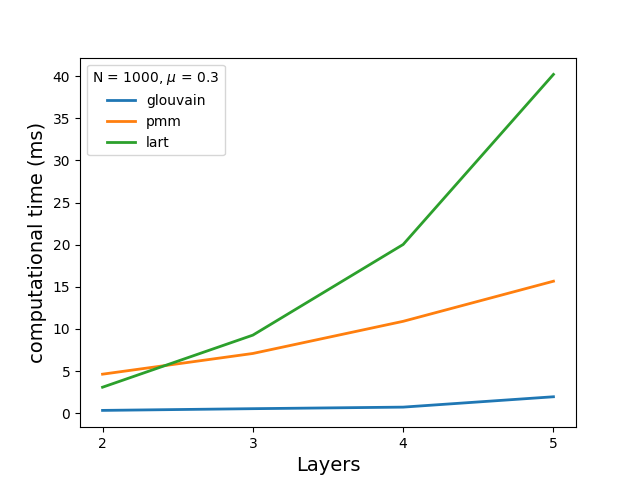
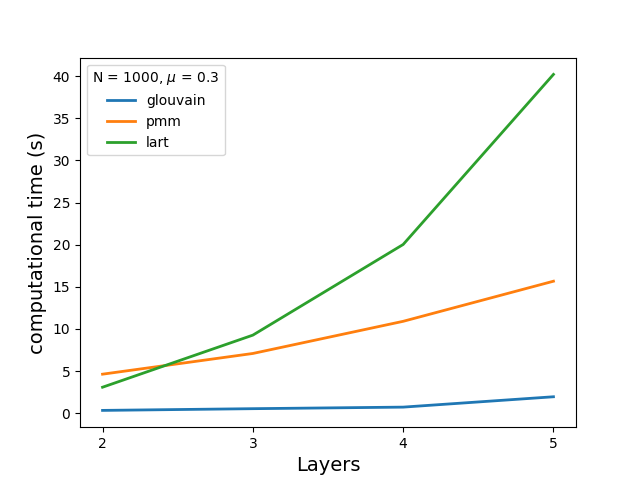
MS -> S

Changed region(s): [[0.0312, 0.25, 0.0938, 0.75]]

diff --git a/plot/t2.py b/plot/t2.py
@@ -51,7 +51,7 @@ def main():
 	c = plot(data, 'lart', 0, 1000)
 
 	plt.xlabel('Layers', fontsize = 14)
-	plt.ylabel('computational time (ms)', fontsize = 14)
+	plt.ylabel('computational time (s)', fontsize = 14)
 	plt.legend(handles = [a, b, c], loc = 2, title = 'N = 1000, $\mu$ = 0.3')
 	plt.xticks(x)
 	plt.savefig('t2a')
@@ -73,7 +73,7 @@ def main():
 	c = plot(data, 'lart', 0, 4000)
 
 	plt.xlabel('Layers', fontsize = 14)
-	plt.ylabel('computational time (ms)', fontsize = 14)
+	plt.ylabel('computational time (s)', fontsize = 14)
 	plt.legend(handles = [a, b, c], loc = 2, title = 'N = 4000, $\mu$ = 0.3')
 	plt.xticks(x)
 	plt.savefig('t2c')

diff --git a/plot/t1.py b/plot/t1.py
@@ -49,7 +49,7 @@ def main():
 	c = plot(data, 'lart', 0)
 
 	plt.xlabel('Actors (thousand)', fontsize = 14)
-	plt.ylabel('computational time (ms)', fontsize = 14)
+	plt.ylabel('computational time (s)', fontsize = 14)
 	plt.legend(handles = [a, b, c], loc = 2, title = 'L = 3, $\mu$ = 0.3')
 	plt.xticks(x)
 	plt.savefig('t1a')

diff --git a/plot/t3.py b/plot/t3.py
@@ -24,7 +24,7 @@ def main():
 	c = plot(data, 'pmm', 0)
 
 	plt.xlabel('Actors (thousand)', fontsize = 14)
-	plt.ylabel('computational time (ms)', fontsize = 14)
+	plt.ylabel('computational time (s)', fontsize = 14)
 	plt.legend(handles = [a, c], loc = 2, title = 'L = 3, $\mu$ = 0.3')
 	plt.xticks(x)
 	plt.savefig('t3a')
